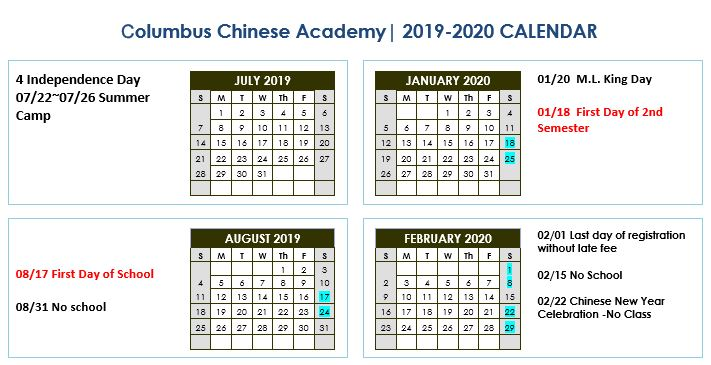
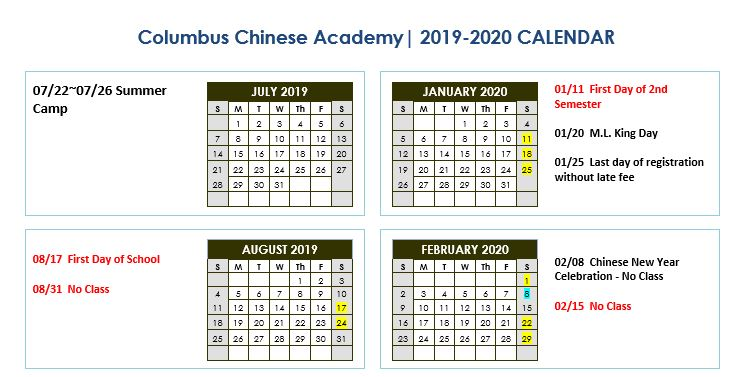
Update 2019-2020 calendar

diff --git a/app/templates/home.html b/app/templates/home.html
@@ -17,7 +17,7 @@
 	-->
 	
 	<div class="col-md-12" >
-	<div class="ribbon"><span>New</span></div>
+	<!--<div class="ribbon"><span>New</span></div>-->
 		<div class="card" style="margin-top:15px;margin-bottom: 15px">
 			<a class="announce_link" ui-sref="reg">
                 <div class="btn btn-primary btn-block"><h3>註冊開始了! Register for the Autumn Semester!</h3></div>
@@ -36,10 +36,10 @@
 			<h3>官方公告 Official Announcements</h3><hr>
 			<a class="announce_link" ui-sref="reg">
                 <div class="item-title">線上註冊 Online Registration for Autumn Semester</div>
-                <div class="item-time"><span class="label label-danger">NEW</span> 2019-08-17</div>
+                <div class="item-time"> 2019-08-17</div>
 			</a>
 			<div class="item-title"><b>Last day of registration with no late fee</b></div>
-			<div class="item-time"><b><span class="label label-danger">NEW</span> 2019-09-07<b></div>
+			<div class="item-time"><b> 2019-09-07<b></div>
 <!-- 			<a class="announce_link" ui-sref="chinese_reg">
                 <div class="item-title">中文課程註冊表 Chinese Course Registration Form</div>
                 <div class="item-time"><span class="label label-danger">NEW</span> 2017-01-03</div>
@@ -75,10 +75,10 @@
 			<div class="item-title">5/18/2019 十年級畢業典禮 <br>10th grade graduation ceremony</div>
 			<div class="item-time">2019-05-18</div>
 			-->
- 			<a href="https://youtu.be/ngC0DKlHtVg" target="_blank">
-                <div class="item-title">7/22/2019 - 7/26/2019 夏令營 傳承文化 <br>Summer Camp Performance</div>               
+ 			<a href="images/2019_Mid_Autumn.jpg" target="_blank">
+                <div class="item-title">9/14 中秋節慶祝活動 Mid-Autumn Festival</div>               
             </a>
-			<div class="item-time"><span class="label label-danger">NEW</span> 2019-07-22</div>
+			<div class="item-time"><span class="label label-danger">NEW</span> 2019-09-20</div>
 			
 			<!--
  			<a class="announce_link" ui-sref="summercamp2019">
@@ -124,7 +124,7 @@
 		</div>
 		-->
 		<div class="col-md-4">
-			<div class="ribbon"><span>New</span></div>
+			<!--<div class="ribbon"><span>New</span></div>-->
 			<div class="thumbnail">
 			  <img src="images/2019_CCA_Summer_Camp_small.jpg">
 			  <div class="caption">
@@ -136,7 +136,7 @@
 		</div>
 		
 		<div class="col-md-5">
-			<div class="ribbon"><span>New</span></div>
+			<!--<div class="ribbon"><span>New</span></div>-->
 			<div class="thumbnail">
 			  <img src="images/back_to_school2.jpg">
 			  <div class="caption">
